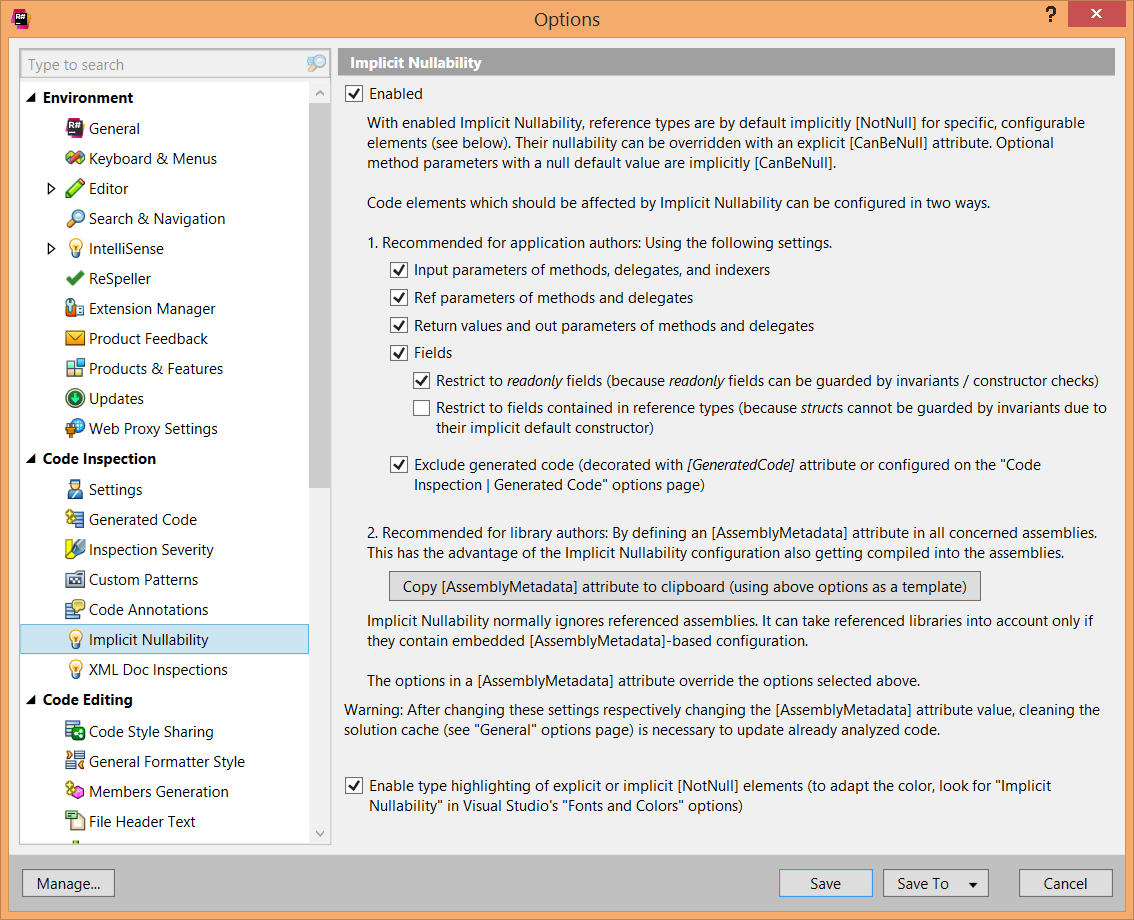
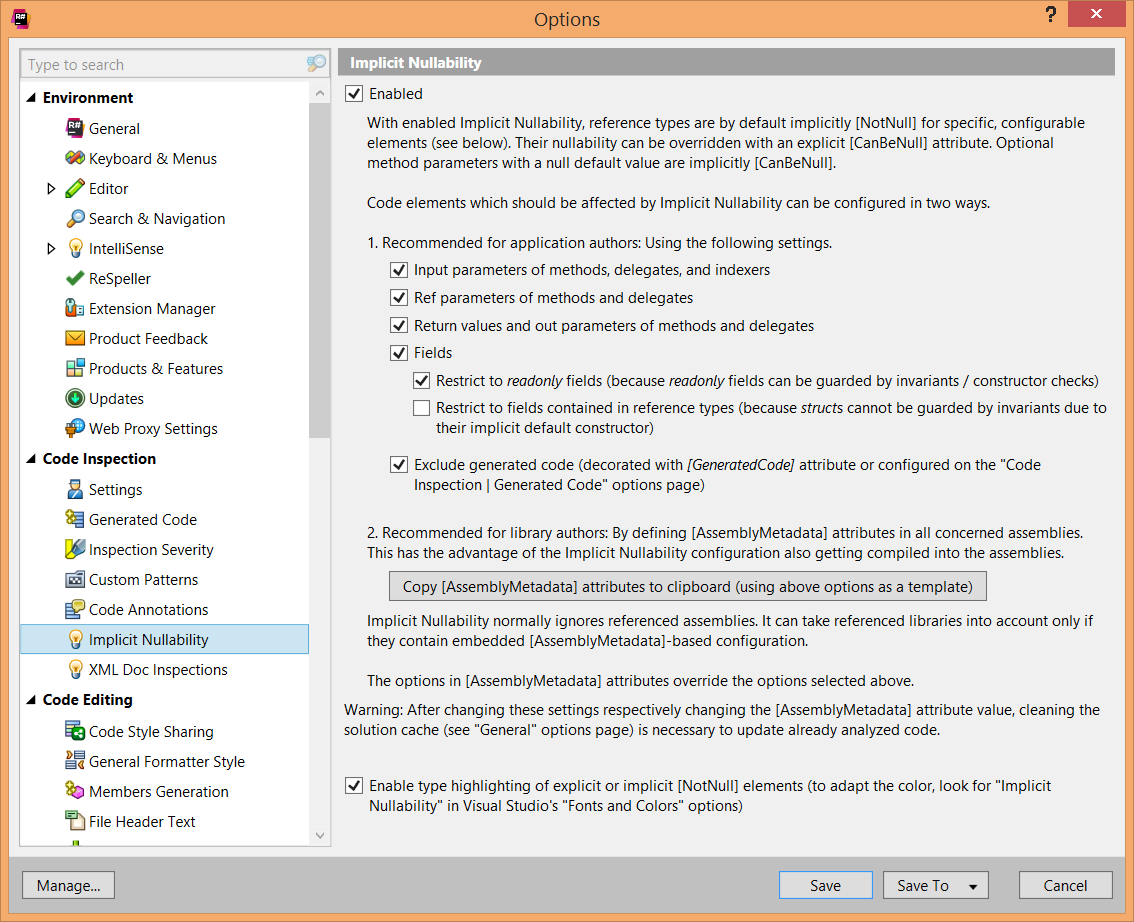
Improve options page texts

diff --git a/Src/ImplicitNullability.Plugin/Configuration/OptionsPages/ImplicitNullabilityOptionsPage.cs b/Src/ImplicitNullability.Plugin/Configuration/OptionsPages/ImplicitNullabilityOptionsPage.cs
@@ -104,11 +104,11 @@ namespace ImplicitNullability.Plugin.Configuration.OptionsPages
 
             var assemblyAttributeInfoText1 =
                 "\n" +
-                "2. Recommended for library authors: By defining an [AssemblyMetadata] attribute in all concerned assemblies. " +
+                "2. Recommended for library authors: By defining [AssemblyMetadata] attributes in all concerned assemblies. " +
                 "This has the advantage of the Implicit Nullability configuration also getting compiled into the assemblies.";
             SetIndent(AddText(assemblyAttributeInfoText1), 1);
 
-            var copyButtonText = "Copy [AssemblyMetadata] attribute to clipboard (using above options as a template)";
+            var copyButtonText = "Copy [AssemblyMetadata] attributes to clipboard (using above options as a template)";
             var copyButton = AddButton(copyButtonText, new DelegateCommand(CopyAssemblyAttributeCode));
             SetIndent(copyButton, 2);
             enabledOption.CheckedProperty.FlowInto(myLifetime, copyButton.GetIsEnabledProperty());
@@ -117,7 +117,7 @@ namespace ImplicitNullability.Plugin.Configuration.OptionsPages
                 "Implicit Nullability normally ignores referenced assemblies. " +
                 "It can take referenced libraries into account only if they contain embedded [AssemblyMetadata]-based configuration.\n" +
                 "\n" +
-                "The options in a [AssemblyMetadata] attribute override the options selected above.";
+                "The options in [AssemblyMetadata] attributes override the options selected above.";
             SetIndent(AddText(assemblyAttributeInfoText2), 1);
 
             var cacheInfoText =
